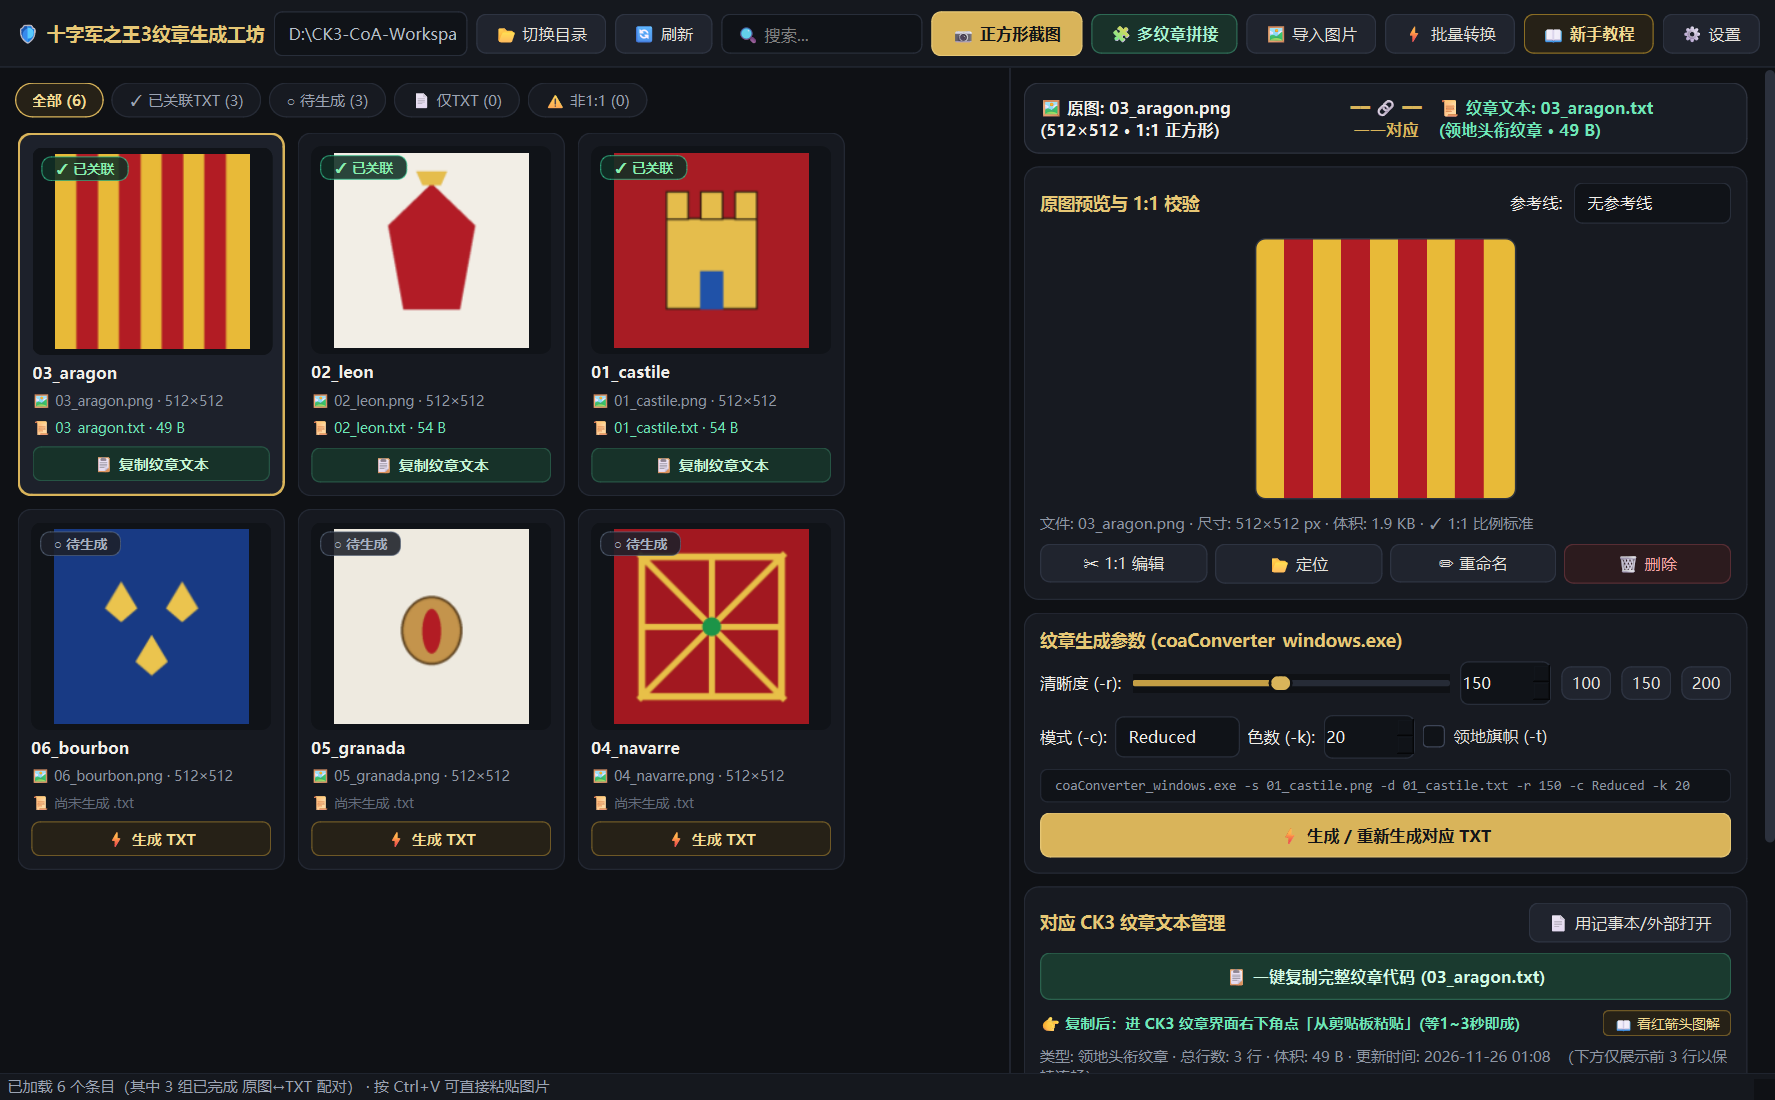
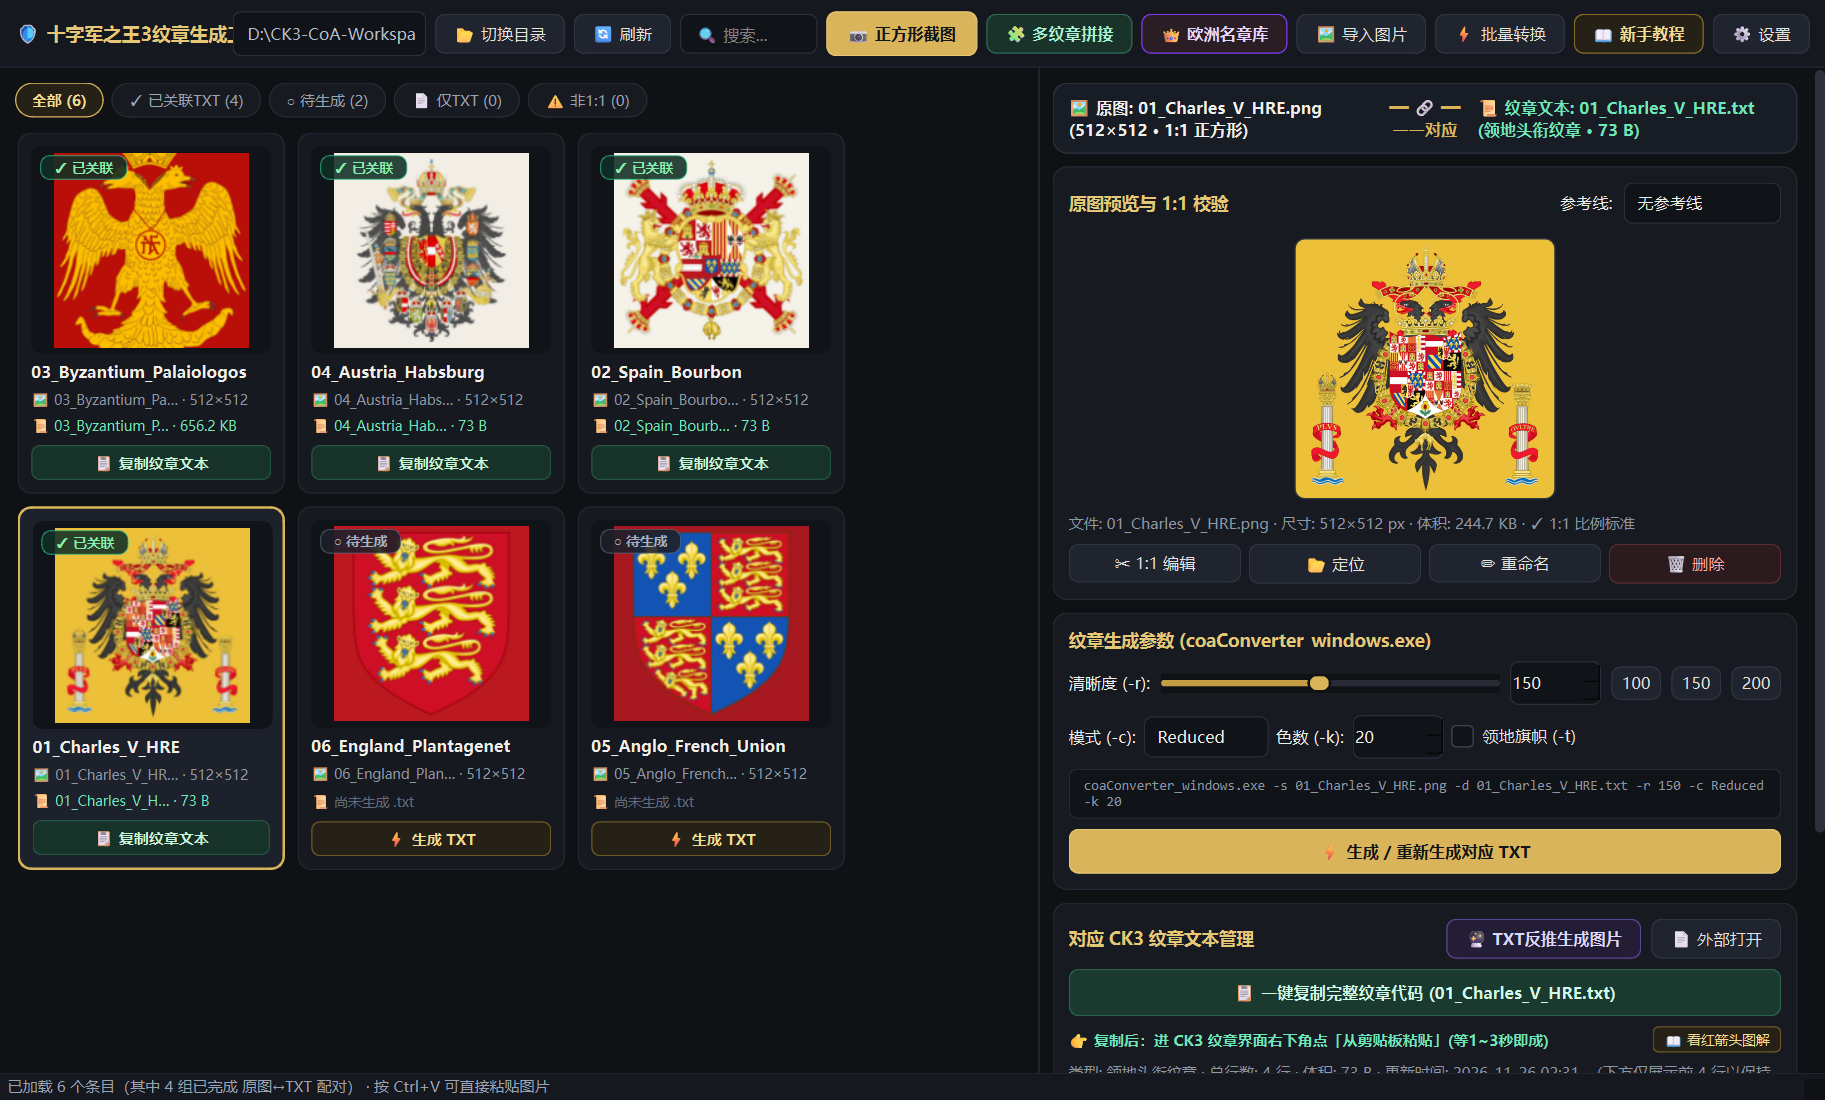
docs: 更新GitHub全部功能预览图为维基欧洲历史名章与TXT反向还原实机界面

diff --git a/README.md b/README.md
@@ -55,23 +55,27 @@
 
 ### 主工作台：原图 ↔ 纹章文本一一对应管理
 每一张原图和它生成的 `.txt` 纹章文件自动配对绑定，再也不会忘掉哪个 `.txt` 是哪张图转出来的：
-![CK3 CoA Studio Main UI](docs/preview.png)
+![CK3 CoA Studio Main UI](docs/preview.png?v=2)
 
 ### 🧩 多纹章拼接工坊（西班牙王室六合一 / 汉诺威三分 / 帝国九区大复合 / 四分+中央小盾）
 无需手动画图对齐！内置 6 种经典历史复合纹章模板（完美还原**卡斯蒂利亚+莱昂+阿拉贡+纳瓦拉+底部格拉纳达尖角+中央法兰西波旁小盾**六合一、**汉诺威三分+小盾**、**萨伏依/帝国九区复合**、**经典四分+中央小盾**、**左右联姻二分**）。支持从内置欧洲名章库或图库一键点选、或直接截图填入任意分区，在画布上鼠标拖拽平移、滚轮独立缩放每个分区，支持自定义鎏金分界线与中央小盾形状/外环色，一键导出并生成 CK3 纹章代码：
-![CK3 CoA Studio Multi-CoA Composer](docs/composer_preview.png)
+![CK3 CoA Studio Multi-CoA Composer](docs/composer_preview.png?v=2)
 
-### 👑 内置 14 款欧洲历史名门纹章库（一键导入 / 自由拼接）
-软件内置 14 款高清矢量绘制的欧洲知名历史王朝与帝国纹章（**东罗马/拜占庭巴列奥略四B十字**、**神圣罗马帝国皇室双头黑鹰**、**法兰西皇家三金百合**、**英格兰金雀花三迈步金狮**、**耶路撒冷十字军王国五金十字**、**条顿骑士团大团长鹰盾十字**、**卡斯蒂利亚黄金城堡**、**莱昂金冠紫红狮**、**阿拉贡条纹旗**、**纳瓦拉黄金锁链**、**格拉纳达石榴**、**萨伏依圣十字**、**西班牙王室六合一联统成品**、**英法百年战争四分联统成品**），开箱即可导入生成或送入拼接工坊自由混搭：
-![CK3 CoA Studio Historical Library](docs/historical_preview.png)
+### 👑 内置 16 款维基共享欧洲历史名门纹章原图库（一键导入 / 自由拼接）
+软件内置 16 款来自维基共享资源（Wikimedia Commons）的高清欧洲知名历史王朝与帝国纹章原图（**西班牙波旁王室大联合全徽**、**神圣罗马帝国查理五世大复合皇室纹章**、**奥地利哈布斯堡双头鹰全徽**、**神罗霍亨斯陶芬皇室黑鹰**、**东罗马/拜占庭巴列奥略双头鹰与四B十字旗**、**英法百年战争四分联统王室纹章**、**英格兰金雀花三金狮**、**法兰西波旁三金百合**、**耶路撒冷五金十字**、**条顿骑士团大团长纹章**、**萨伏依公国复合纹章**、**卡斯蒂利亚城堡**、**莱昂紫红狮**、**阿拉贡条纹**、**纳瓦拉金链**），开箱即可导入生成或送入拼接工坊自由混搭：
+![CK3 CoA Studio Historical Library](docs/historical_preview.png?v=2)
+
+### 🔮 纹章 TXT 代码反向还原生成图片（图片 ⇄ TXT 双向互转）
+无论是没有原图的孤立 `.txt` 文件，还是从贴吧、论坛、游戏里复制出来的数万行纹章代码，都能在 20 毫秒内解析所有色块坐标并反向还原为 `1:1` 高清 PNG 图片：
+![CK3 CoA Studio Reverse TXT to Image](docs/txt_to_image_preview.png?v=2)
 
 ### 内置 1:1 正方形图片编辑器（裁切 / 留白填充 / 画质增强）
 支持自由裁切 1:1，或者不裁切直接自动取边缘色填充为 1:1 正方形，还支持锐化与对比度增强，让纹章进游戏更清晰：
-![CK3 CoA Studio 1:1 Editor](docs/editor_preview.png)
+![CK3 CoA Studio 1:1 Editor](docs/editor_preview.png?v=2)
 
 ### 软件内置「新手保姆级 3 步图文教程」（首次打开自动弹出，随时可查）
 软件内部自带离线实机图文指引（顶部点击「📖 新手教程」或复制按钮下方的「📖 看红箭头图解」即可弹出），彻底解决新手不会用的问题：
-![CK3 CoA Studio Built-in Tutorial](docs/tutorial_preview.png)
+![CK3 CoA Studio Built-in Tutorial](docs/tutorial_preview.png?v=2)
 
 ---
 
